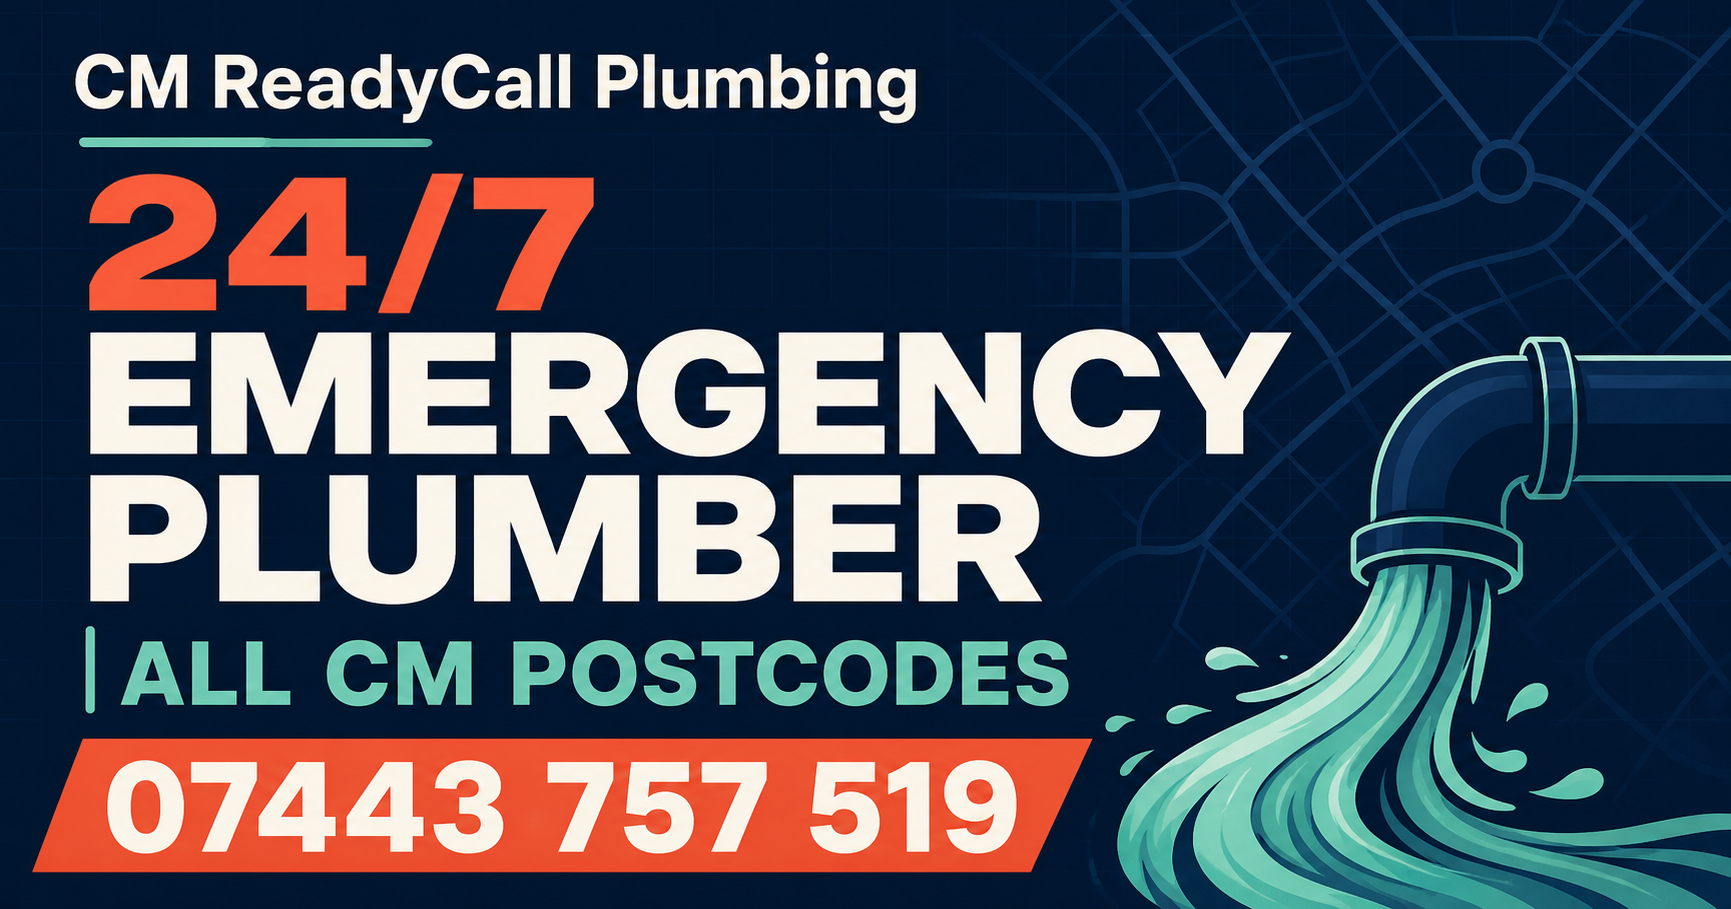
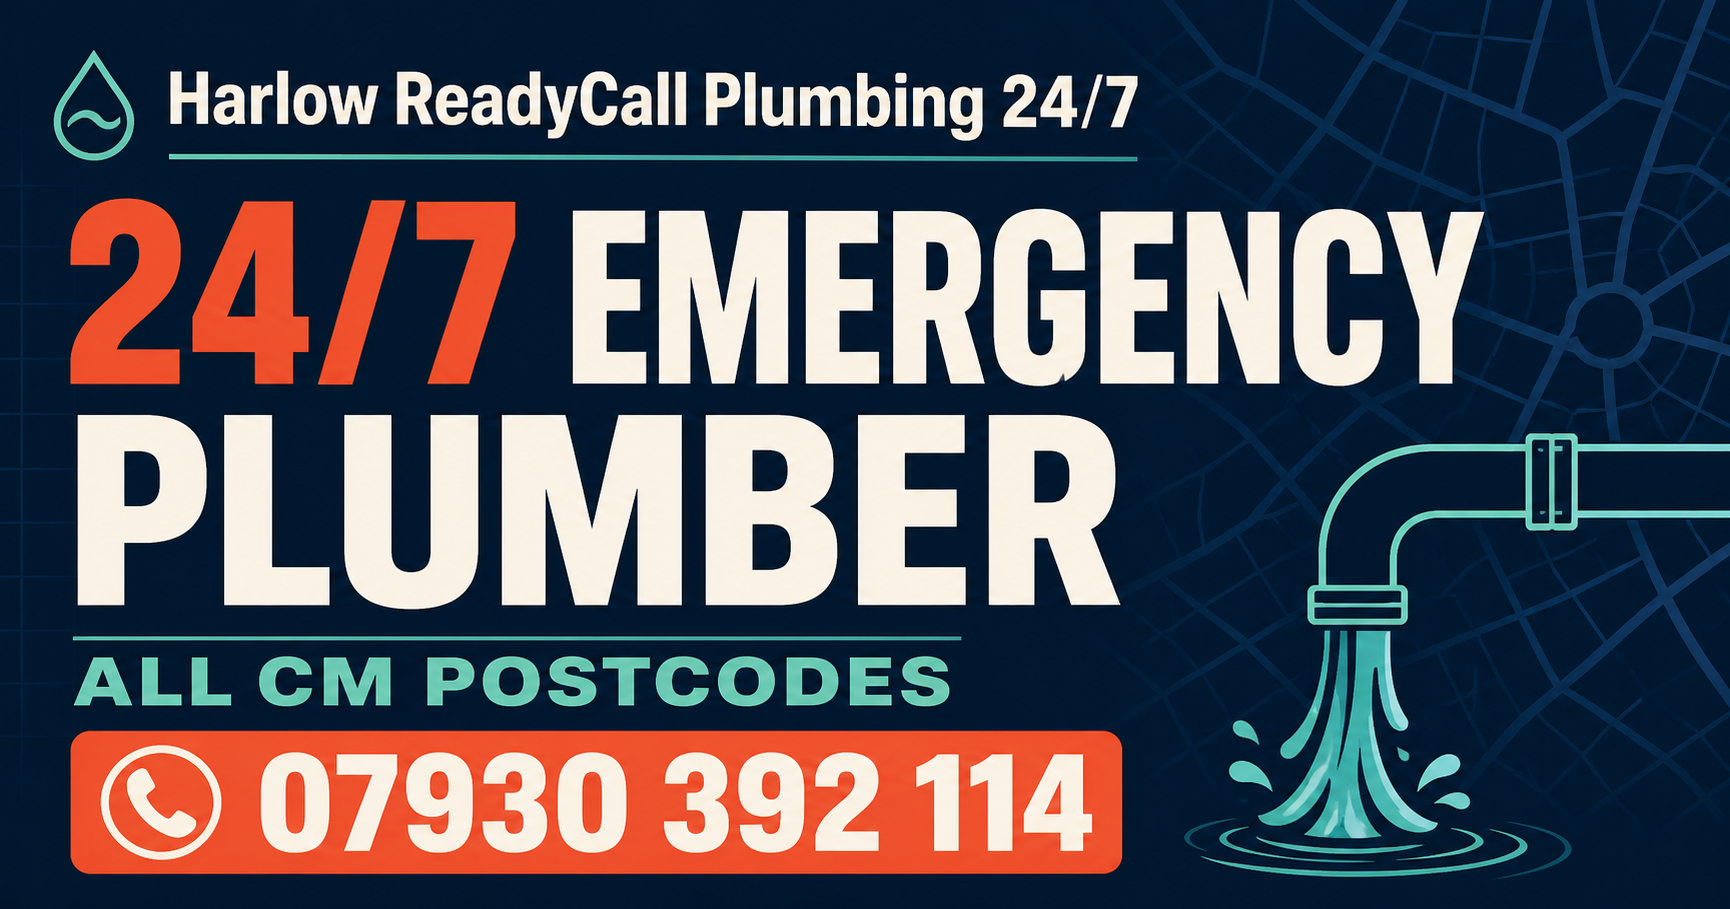
Update Harlow brand and phone number

diff --git a/app/page.tsx b/app/page.tsx
@@ -1,5 +1,5 @@
-const PHONE_DISPLAY = "07443 757 519";
-const PHONE_HREF = "tel:+447443757519";
+const PHONE_DISPLAY = "07930 392 114";
+const PHONE_HREF = "tel:+447930392114";
 
 const services = [
   { number: "01", title: "Burst pipes", text: "Help with sudden pipe failures, escaping water and urgent isolation." },
@@ -48,8 +48,8 @@ export default function Home() {
   const structuredData = {
     "@context": "https://schema.org",
     "@type": "Plumber",
-    name: "CM ReadyCall Plumbing",
-    telephone: "+447443757519",
+    name: "Harlow ReadyCall Plumbing 24/7",
+    telephone: "+447930392114",
     areaServed: "CM postcode area, United Kingdom",
     openingHours: "Mo-Su 00:00-23:59",
     description: "24/7 emergency plumbing help for homes and businesses across every CM postcode.",
@@ -68,9 +68,9 @@ export default function Home() {
 
       <header className="site-header">
         <div className="shell header-inner">
-          <a className="brand" href="#top" aria-label="CM ReadyCall Plumbing home">
-            <span className="brand-mark" aria-hidden="true">CM</span>
-            <span className="brand-name"><strong>ReadyCall</strong><span>Plumbing 24/7</span></span>
+          <a className="brand" href="#top" aria-label="Harlow ReadyCall Plumbing 24/7 home">
+            <span className="brand-mark" aria-hidden="true">HR</span>
+            <span className="brand-name"><strong>Harlow ReadyCall</strong><span>Plumbing 24/7</span></span>
           </a>
 
           <nav className="desktop-nav" aria-label="Main navigation">
@@ -230,11 +230,11 @@ export default function Home() {
 
       <footer>
         <div className="shell footer-main">
-          <a className="brand brand-footer" href="#top" aria-label="CM ReadyCall Plumbing home"><span className="brand-mark" aria-hidden="true">CM</span><span className="brand-name"><strong>ReadyCall</strong><span>Plumbing 24/7</span></span></a>
+          <a className="brand brand-footer" href="#top" aria-label="Harlow ReadyCall Plumbing 24/7 home"><span className="brand-mark" aria-hidden="true">HR</span><span className="brand-name"><strong>Harlow ReadyCall</strong><span>Plumbing 24/7</span></span></a>
           <p>24/7 emergency plumbing help across every postcode beginning with CM.</p>
           <a className="footer-phone" href={PHONE_HREF}>Call {PHONE_DISPLAY}</a>
         </div>
-        <div className="shell footer-bottom"><span>CM ReadyCall Plumbing</span><span>Open 24/7 • Serving the complete CM postcode area</span></div>
+        <div className="shell footer-bottom"><span>Harlow ReadyCall Plumbing 24/7</span><span>Open 24/7 • Serving the complete CM postcode area</span></div>
       </footer>
 
       <a className="mobile-call-bar" href={PHONE_HREF} aria-label={`Call emergency plumber on ${PHONE_DISPLAY}`}>

diff --git a/app/layout.tsx b/app/layout.tsx
@@ -14,21 +14,21 @@ const geistMono = Geist_Mono({
 
 export const metadata: Metadata = {
   metadataBase: new URL("https://cm-emergency-plumbing-help.andreiacalinescu.chatgpt.site"),
-  title: "CM ReadyCall Plumbing | 24/7 Emergency Plumber",
+  title: "Harlow ReadyCall Plumbing 24/7 | Emergency Plumber",
   description:
-    "24/7 emergency plumbing for leaks, burst pipes, blockages and urgent problems across every CM postcode. Call 07443 757 519.",
+    "24/7 emergency plumbing for leaks, burst pipes, blockages and urgent problems across every CM postcode. Call 07930 392 114.",
   icons: {
     icon: "/favicon.svg",
     shortcut: "/favicon.svg",
   },
   openGraph: {
-    title: "CM ReadyCall Plumbing | Open 24/7",
+    title: "Harlow ReadyCall Plumbing 24/7",
     description:
-      "24/7 emergency plumbing help across every postcode beginning with CM. Call 07443 757 519.",
+      "24/7 emergency plumbing help across every postcode beginning with CM. Call 07930 392 114.",
     images: [
       {
         url: "/og.png",
-        alt: "CM ReadyCall Plumbing — 24/7 emergency plumber across all CM postcodes",
+        alt: "Harlow ReadyCall Plumbing 24/7 — emergency plumber across all CM postcodes",
       },
     ],
     type: "website",
@@ -36,7 +36,7 @@ export const metadata: Metadata = {
   },
   twitter: {
     card: "summary_large_image",
-    title: "CM ReadyCall Plumbing | Open 24/7",
+    title: "Harlow ReadyCall Plumbing 24/7",
     description:
       "24/7 emergency plumbing help across every postcode beginning with CM.",
     images: ["/og.png"],

diff --git a/app/globals.css b/app/globals.css
@@ -126,7 +126,7 @@ summary:focus-visible {
   letter-spacing: -.02em;
 }
 
-.brand-name strong { font-size: 1.08rem; }
+.brand-name strong { font-size: 1.02rem; }
 .brand-name span { color: var(--ink-soft); }
 
 .desktop-nav {
